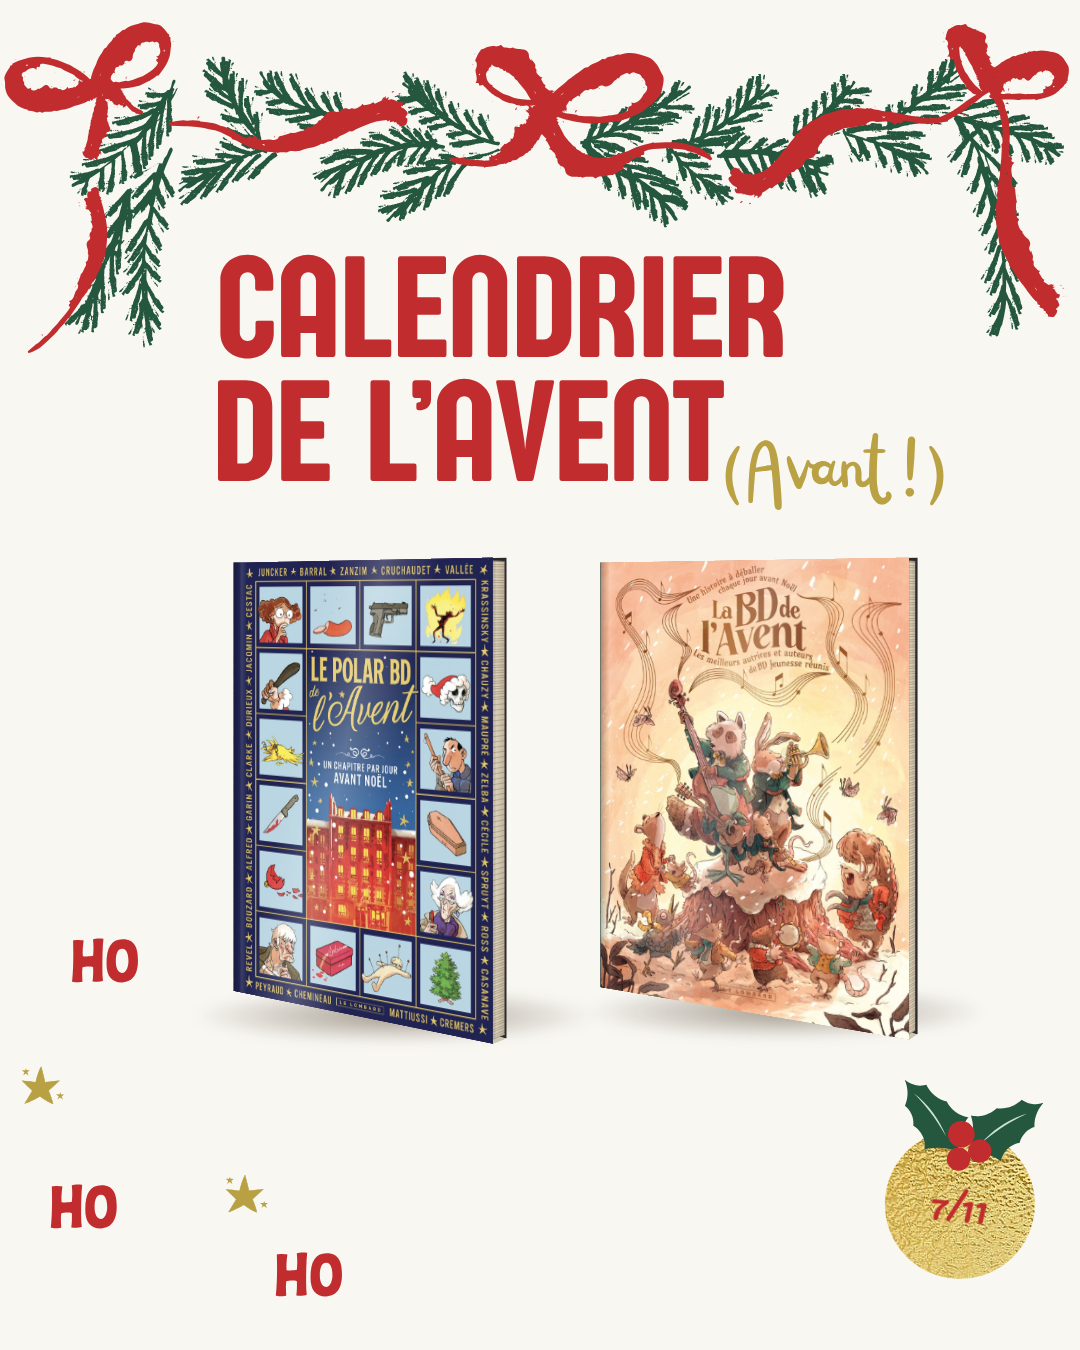
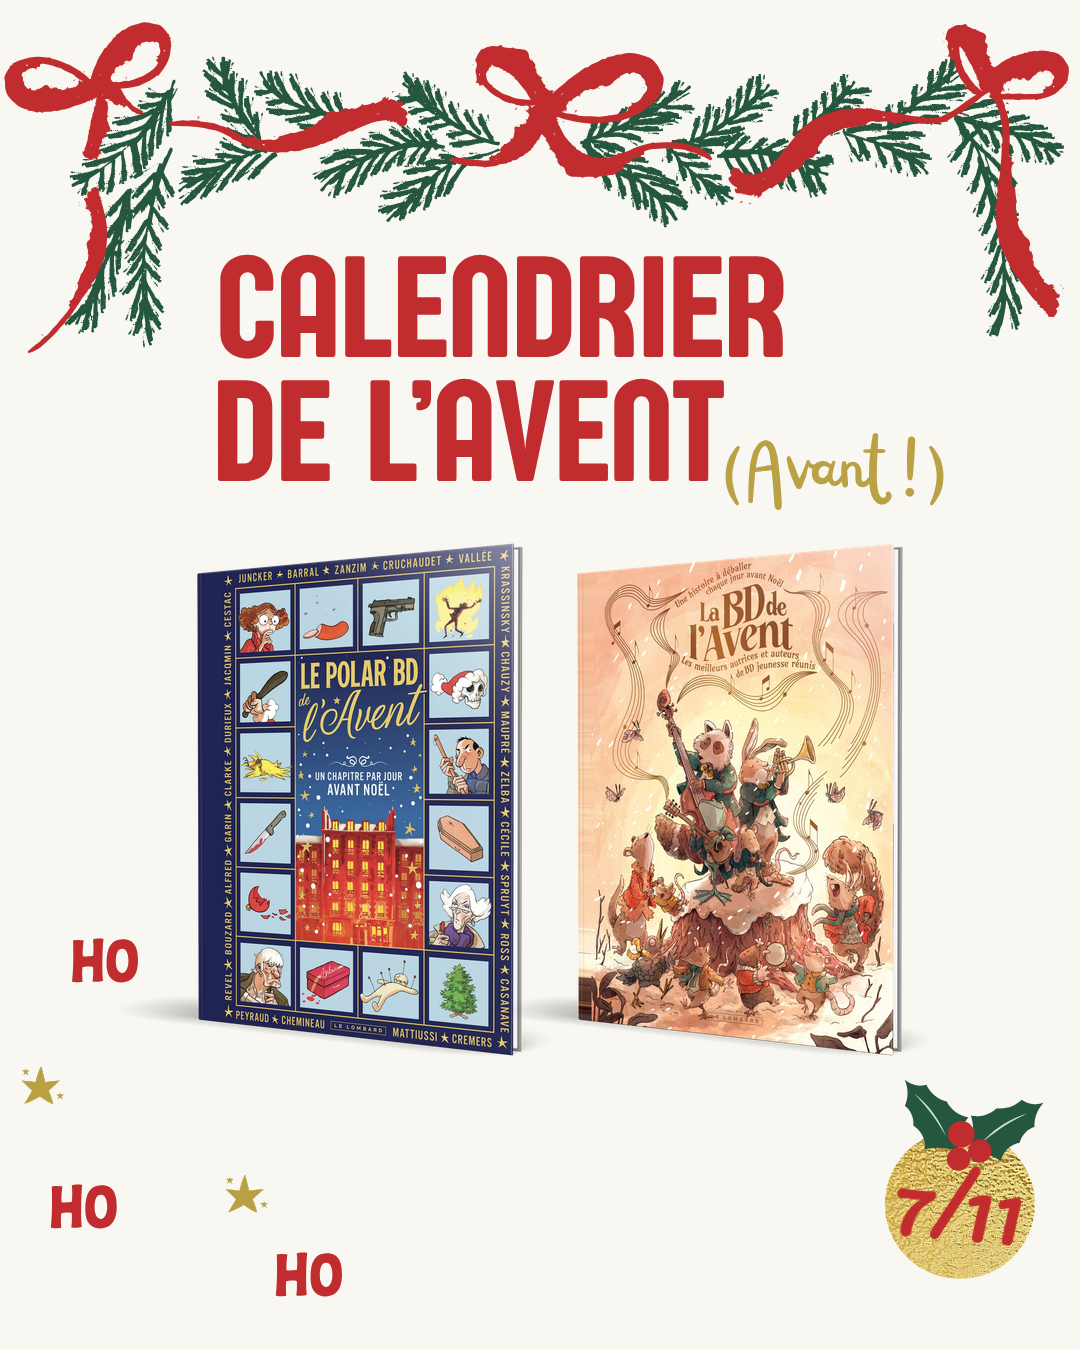
Calendrier Avant : mockup 3D issu du PSD bd_debout_droite_bas + date agrandie (90 % de la boule)
Claude-Session: https://claude.ai/code/session_01QaZk7QZvzTVY1x8op41wve

Changed region(s): [[0.5194, 0.4044, 0.8556, 0.7778], [0.1528, 0.4044, 0.4889, 0.7778], [0.825, 0.8711, 0.9472, 0.9333]]

diff --git a/calendrier-avent-2026/jours/_page.html b/calendrier-avent-2026/jours/_page.html
@@ -1,0 +1,36 @@
+<!doctype html><html><head><meta charset="utf-8"><style>
+@font-face{font-family:DateFont;src:url(file:///home/user/lesponctuelles/calendrier-avent-2026/assets/polices/Pacifico.ttf)}
+html,body{margin:0;width:1080px;height:1350px;overflow:hidden}
+#c{position:relative;width:1080px;height:1350px;background:url(file:///home/user/lesponctuelles/calendrier-avent-2026/assets/fond.png)}
+.stage{position:absolute;left:0;top:0;width:1080px;height:1350px;perspective:1500px;perspective-origin:540px 600px}
+.book{position:absolute;transform-style:preserve-3d}
+.book .f{position:absolute;inset:0;background-size:cover;backface-visibility:hidden}
+.book .f::after{content:"";position:absolute;inset:0;
+ background:linear-gradient(105deg,rgba(255,255,255,0) 30%,rgba(255,255,255,.22) 45%,rgba(255,255,255,0) 60%),
+ linear-gradient(90deg,rgba(0,0,0,.28) 0,rgba(0,0,0,.05) 2.5%,rgba(255,255,255,.12) 3.5%,rgba(0,0,0,0) 6%)}
+.book .face{position:absolute}
+.book .pg{top:3px;height:calc(100% - 6px);background:linear-gradient(90deg,rgba(60,40,20,.35),rgba(60,40,20,.12) 40%,rgba(60,40,20,.28)),repeating-linear-gradient(0deg,#efe6d2 0 1.5px,#cbbfa4 1.5px 2.5px);box-shadow:inset 0 0 0 1px rgba(0,0,0,.25)}
+.book .tp{left:0;width:calc(100% - 3px);background:linear-gradient(0deg,rgba(255,255,255,.2),rgba(0,0,0,.1)),repeating-linear-gradient(90deg,#efe6d2 0 1.5px,#cbbfa4 1.5px 2.5px)}
+.book .bt{left:0;width:100%;background:#cfc7b4}
+.book .sp{top:0;height:100%;filter:brightness(.6)}
+.book .bk{inset:0;background:#2b2b2b}
+.shadow{position:absolute;border-radius:50%;background:radial-gradient(ellipse at center,rgba(60,40,20,.45),rgba(60,40,20,0) 70%);filter:blur(6px)}
+#date{position:absolute;left:959px;top:1207px;transform:translate(-50%,-50%) rotate(5deg);font-family:DateFont;font-size:36px;color:#C12D2E;white-space:nowrap;line-height:1}
+</style></head><body><div id="c">
+<div class="shadow" style="left:190px;top:988px;width:410px;height:56px"></div>
+ <div class="stage"><div class="book" style="--t:22px;left:185px;top:560px;width:340px;height:456px;transform:rotateY(-34deg) rotateZ(0deg)">
+ <div class="face bk" style="transform:translateZ(-22px) rotateY(180deg)"></div>
+ <div class="face sp" style="width:22px;left:-11px;background-image:url(file:///home/user/lesponctuelles/calendrier-avent-2026/assets/couvertures/9782808217989-bd-de-l-avent-polar-2026.jpg);background-size:auto 100%;background-position:left;transform:translateZ(-11px) rotateY(-90deg)"></div>
+ <div class="face pg" style="width:22px;left:327px;transform:translateZ(-11px) rotateY(90deg)"></div>
+ <div class="face tp" style="height:22px;top:-9px;transform:translateZ(-11px) rotateX(90deg)"></div>
+ <div class="face bt" style="height:22px;top:445px;transform:translateZ(-11px) rotateX(-90deg)"></div>
+ <div class="f" style="background-image:url(file:///home/user/lesponctuelles/calendrier-avent-2026/assets/couvertures/9782808217989-bd-de-l-avent-polar-2026.jpg)"></div></div></div><div class="shadow" style="left:580px;top:984px;width:410px;height:56px"></div>
+ <div class="stage"><div class="book" style="--t:22px;left:575px;top:560px;width:340px;height:452px;transform:rotateY(-34deg) rotateZ(0deg)">
+ <div class="face bk" style="transform:translateZ(-22px) rotateY(180deg)"></div>
+ <div class="face sp" style="width:22px;left:-11px;background-image:url(file:///home/user/lesponctuelles/calendrier-avent-2026/assets/couvertures/9782808217972-bd-de-l-avent-jeunesse-2026.jpg);background-size:auto 100%;background-position:left;transform:translateZ(-11px) rotateY(-90deg)"></div>
+ <div class="face pg" style="width:22px;left:327px;transform:translateZ(-11px) rotateY(90deg)"></div>
+ <div class="face tp" style="height:22px;top:-9px;transform:translateZ(-11px) rotateX(90deg)"></div>
+ <div class="face bt" style="height:22px;top:441px;transform:translateZ(-11px) rotateX(-90deg)"></div>
+ <div class="f" style="background-image:url(file:///home/user/lesponctuelles/calendrier-avent-2026/assets/couvertures/9782808217972-bd-de-l-avent-jeunesse-2026.jpg)"></div></div></div>
+<div id="date">7/11</div>
+</div></body></html>

diff --git a/calendrier-avent-2026/compose.py b/calendrier-avent-2026/compose.py
@@ -1,0 +1,126 @@
+"""Génère un visuel du calendrier : python3 compose.py jours/jour01.json sorties/jour01.png
+
+Mockup : calques extraits de bd_debout_droite_bas.psd (Shadow, Book, Cover en Overlay, Shine).
+"""
+import json, sys, os
+import numpy as np
+from PIL import Image, ImageDraw, ImageFont
+
+HERE = os.path.dirname(os.path.abspath(__file__))
+M = os.path.join(HERE, 'assets', 'mockup')
+
+# Positions des calques dans le PSD (2500x1667)
+BOOK_XY, SHADOW_XY, SHINE_XY = (743, 129), (511, 1273), (1002, 128)
+SHADOW_OP, SHINE_OP = 77 / 255, 184 / 255
+# Quad du smart object "Cover" (TL, TR, BR, BL) et taille de son contenu
+COVER_QUAD = [(742.88, 210.02), (1610.90, 128.31), (1608.34, 1533.40), (745.74, 1435.05)]
+SO_W, SO_H, HINGE = 2550, 3300, 125   # bande de charnière à gauche
+CROP = (505, 120, 1740, 1545)           # zone utile du mockup (livre + ombre)
+
+
+def perspective_coeffs(dst, src):
+    """Coefficients pour Image.transform(PERSPECTIVE) : point dst -> point src."""
+    A, b = [], []
+    for (x, y), (u, v) in zip(dst, src):
+        A.append([x, y, 1, 0, 0, 0, -u * x, -u * y]); b.append(u)
+        A.append([0, 0, 0, x, y, 1, -v * x, -v * y]); b.append(v)
+    return np.linalg.solve(np.array(A, float), np.array(b, float)).tolist()
+
+
+def so_content(cover):
+    """Contenu du smart object : couverture + charnière prolongée à gauche."""
+    so = Image.new('RGB', (SO_W, SO_H))
+    cover = cover.convert('RGB')
+    e = max(1, round(cover.width * .004))          # supprime le liseré de bord éventuel
+    cover = cover.crop((e, e, cover.width - e, cover.height - e))
+    c = cover.resize((SO_W - HINGE, SO_H), Image.LANCZOS)
+    so.paste(c, (HINGE, 0))
+    k = round(c.width * .01)                        # charnière = prolongement du bord gauche
+    so.paste(c.crop((k, 0, k + 1, SO_H)).resize((HINGE, SO_H)), (0, 0))
+    return so
+
+
+def render_book(cover_path):
+    """Rend le mockup complet (RGBA, taille CROP) pour une couverture."""
+    W, H = 2500, 1667
+    canvas = Image.new('RGBA', (W, H), (0, 0, 0, 0))
+    shadow = Image.open(os.path.join(M, 'shadow.png')).convert('RGBA')
+    a = shadow.getchannel('A').point(lambda p: int(p * SHADOW_OP)); shadow.putalpha(a)
+    canvas.alpha_composite(shadow, SHADOW_XY)
+
+    book = Image.new('RGBA', (W, H), (0, 0, 0, 0))
+    book.paste(Image.open(os.path.join(M, 'book.png')).convert('RGBA'), BOOK_XY)
+    # couverture déformée en perspective sur le quad
+    src = [(0, 0), (SO_W, 0), (SO_W, SO_H), (0, SO_H)]
+    warped = so_content(Image.open(cover_path)).transform(
+        (W, H), Image.PERSPECTIVE, perspective_coeffs(COVER_QUAD, src), Image.BICUBIC)
+    qmask = Image.new('L', (W, H), 0)
+    ImageDraw.Draw(qmask).polygon(COVER_QUAD, fill=255)
+    # mode Overlay (calque Cover) sur le livre
+    base = np.asarray(book, float) / 255
+    bl = np.asarray(warped, float) / 255
+    rgb = base[..., :3]
+    ov = np.where(rgb < .5, 2 * rgb * bl, 1 - 2 * (1 - rgb) * (1 - bl))
+    m = (np.asarray(qmask, float) / 255)[..., None]
+    rgb = rgb * (1 - m) + ov * m
+    out = np.dstack([rgb, base[..., 3]])
+    book = Image.fromarray((out * 255).round().astype('uint8'), 'RGBA')
+    # Shine (normal) limité au livre
+    shine = Image.new('RGBA', (W, H), (0, 0, 0, 0))
+    shine.paste(Image.open(os.path.join(M, 'shine.png')).convert('RGBA'), SHINE_XY)
+    sa = np.asarray(shine.getchannel('A'), float) * SHINE_OP * np.asarray(book.getchannel('A'), float) / 255
+    shine.putalpha(Image.fromarray(sa.astype('uint8')))
+    book.alpha_composite(shine)
+    canvas.alpha_composite(book)
+    return canvas.crop(CROP)
+
+
+def main(cfg_path, out_path):
+    cfg = json.load(open(cfg_path)); base = os.path.dirname(os.path.abspath(cfg_path))
+    p = lambda f: os.path.join(base, f)
+    bg = Image.open(p(cfg['bg'])).convert('RGBA')
+    for b in cfg['books']:
+        im = render_book(p(b['img']))
+        s = b['h'] / (1545 - 120)   # h = hauteur de la zone mockup en px
+        im = im.resize((round(im.width * s), round(im.height * s)), Image.LANCZOS)
+        bg.alpha_composite(im, (b['x'], b['y']))
+    # date dans la boule
+    d = cfg['date']; cx, cy, diam = d['cx'], d['cy'], d['diam']
+    target = d.get('fill', .9) * diam
+    font_path = p(d['font'])
+    def layer(size):
+        f = ImageFont.truetype(font_path, size)
+        l, t, r, bt = f.getbbox(d['text'])
+        t_im = Image.new('RGBA', (r - l + 40, bt - t + 40), (0, 0, 0, 0))
+        ImageDraw.Draw(t_im).text((20 - l, 20 - t), d['text'], font=f, fill=d.get('color', '#C12D2E'))
+        rot = t_im.rotate(-d.get('angle', 5), resample=Image.BICUBIC, expand=True)  # + = sens horaire
+        return rot.crop(rot.getbbox())
+    # zone dorée libre de la boule (hors houx/baies), légèrement rétrécie
+    from PIL import ImageFilter
+    reg = bg.crop((cx - diam, cy - diam, cx + diam, cy + diam)).convert('RGB')
+    g = np.asarray(reg).astype(int)
+    gold = (g[..., 0] > 150) & (g[..., 1] > 110) & (g[..., 2] < 140) & (g[..., 0] - g[..., 2] > 60)
+    yy, xx = np.mgrid[:gold.shape[0], :gold.shape[1]]
+    gold &= (xx - diam) ** 2 + (yy - diam) ** 2 <= (diam / 2) ** 2
+    gm = Image.fromarray((gold * 255).astype('uint8')).filter(ImageFilter.MaxFilter(5)).filter(ImageFilter.MinFilter(11))
+    gold = np.asarray(gm) > 0
+    best = None
+    for size in range(20, 200):
+        t_im = layer(size)
+        if t_im.width > target: break
+        ink = np.asarray(t_im.getchannel('A')) > 40
+        ok = None
+        for dy in range(0, round(diam / 4)):       # descend le texte si besoin (sous le houx)
+            x0 = round(diam - t_im.width / 2); y0 = round(diam - t_im.height / 2 + dy)
+            sub = gold[y0:y0 + t_im.height, x0:x0 + t_im.width]
+            if sub.shape == ink.shape and not (ink & ~sub).any(): ok = dy; break
+        if ok is None: continue
+        best = (size, t_im, ok)
+    size, t_im, dy = best
+    bg.alpha_composite(t_im, (round(cx - t_im.width / 2), round(cy - t_im.height / 2 + dy)))
+    bg.convert('RGB').save(out_path)
+    print(out_path, f'police {size}px, texte {t_im.size}, largeur = {t_im.width / diam:.0%} de la boule')
+
+
+if __name__ == '__main__':
+    main(*sys.argv[1:3])

diff --git a/calendrier-avent-2026/README.md b/calendrier-avent-2026/README.md
@@ -1,15 +1,20 @@
 # Calendrier de l'Avent (Avant !) 2026 – visuels Instagram
 
-Concours sur 24 jours, du 7/11 au 30/11/2026. Le planning est dans l'onglet « Planning » de `Calendrier_Avent_AVANT_2026.xlsx`.
+Concours sur 24 jours, du 7/11 au 30/11/2026. Le planning est dans l'onglet « Planning » de `Calendrier_Avent_AVANT_2026.xlsx`
+(ligne du 1/11 = jour 1 = 7/11).
 
 Chaque jour est décrit par un fichier `jours/jourNN.json` :
-- les couvertures (récupérées sur lelombard.com/bd/nouveautes, format M1000x1300) ;
-- la position et l'angle des albums ;
-- la date à écrire dans la boule (rouge #C12D2E, 36px, +5°).
+- `books` : couverture (récupérée sur lelombard.com/bd/nouveautes, format M1000x1300), position `x`/`y` et hauteur `h` du mockup ;
+- `date` : texte, police, couleur (#C12D2E), angle (+5° = sens horaire) et `fill` (largeur visée, 0.9 = 90 % de la boule).
+  La taille est calculée automatiquement : la plus grande possible jusqu'à 90 % de largeur, sans déborder de la boule ni toucher le houx.
+
+Mockup 3D : calques extraits de `bd_debout_droite_bas.psd` (Shadow, Book, Cover en Overlay avec la même perspective, Shine),
+dans `assets/mockup/`.
 
 Rendu en 1080×1350 (format portrait Instagram) :
 
-    node render.js jours/jour01.json sorties/jour01_07-11.png
+    pip install pillow numpy
+    python3 compose.py jours/jour01.json sorties/jour01_07-11.png
 
 Police de la date : `Pacifico.ttf` remplace temporairement Railey (police commerciale, pas disponible ici).
 Pour passer à la vraie police, ajoute `Railey.otf` dans `assets/polices/` et modifie le champ `font`.
